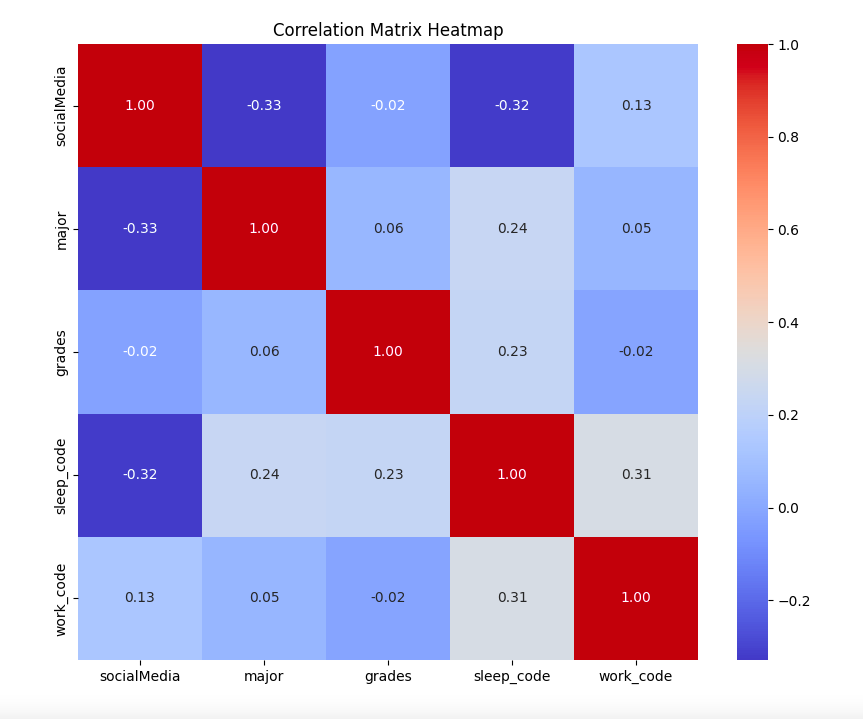
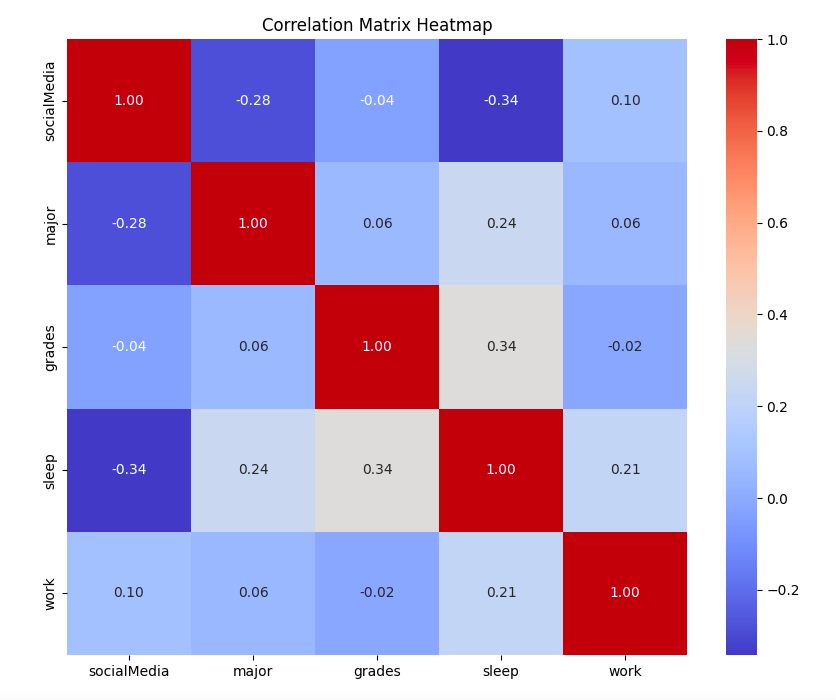
Changed data_exploration.py file.

diff --git a/src/data_exploration.py b/src/data_exploration.py
@@ -2,26 +2,27 @@ import pandas as pd
 import seaborn as sns
 import matplotlib.pyplot as plt
 
-# Load the data
-survey_data = pd.read_csv('/Users/JessFort/Documents/My_Coding_folder/Survey/data/survey.csv')
-
-# Convert categorical variables to numerical codes for correlation analysis
-survey_data['sleep_code'] = survey_data['sleep'].astype('category').cat.codes
-survey_data['work_code'] = survey_data['work'].astype('category').cat.codes
+# Load and preprocess the data
+df = pd.read_csv('/Users/JessFort/Documents/My_Coding_folder/Survey/data/survey.csv')
+df.drop('Timestamp', axis=1, inplace=True)
+df['sleep'] = [4 if str(answer)[0] != '3' else 10 for answer in df['sleep']]
+df['work'] = df['work'].apply(lambda x: 0 if str(x).startswith('1') else 4 if str(x).startswith('2') else 6 if str(x).startswith('3') else 10)
+df['socialMedia'] = df['socialMedia'].apply(lambda x: 0 if x <= 1 else 4 if x == 2 else 6 if x == 3 else 10)
+df = df.astype(float)
 
 # Generate histograms for the numerical variables
 plt.figure(figsize=(15, 5))
 
 plt.subplot(1, 3, 1)
-sns.histplot(survey_data['socialMedia'], kde=False, bins=5)
+sns.histplot(df['socialMedia'], kde=False, bins=5)
 plt.title('Distribution of Social Media Usage')
 
 plt.subplot(1, 3, 2)
-sns.histplot(survey_data['major'], kde=False, bins=8)
+sns.histplot(df['major'], kde=False, bins=8)
 plt.title('Distribution of Major Satisfaction')
 
 plt.subplot(1, 3, 3)
-sns.histplot(survey_data['grades'], kde=False, bins=8)
+sns.histplot(df['grades'], kde=False, bins=8)
 plt.title('Distribution of Grades')
 
 plt.tight_layout()
@@ -31,22 +32,22 @@ plt.show()
 plt.figure(figsize=(15, 5))
 
 plt.subplot(1, 3, 1)
-sns.boxplot(y=survey_data['socialMedia'])
+sns.boxplot(y=df['socialMedia'])
 plt.title('Boxplot of Social Media Usage')
 
 plt.subplot(1, 3, 2)
-sns.boxplot(y=survey_data['major'])
+sns.boxplot(y=df['major'])
 plt.title('Boxplot of Major Satisfaction')
 
 plt.subplot(1, 3, 3)
-sns.boxplot(y=survey_data['grades'])
+sns.boxplot(y=df['grades'])
 plt.title('Boxplot of Grades')
 
 plt.tight_layout()
 plt.show()
 
 # Create a correlation matrix and visualize it using a heatmap
-correlation_matrix = survey_data[['socialMedia', 'major', 'grades', 'sleep_code', 'work_code']].corr()
+correlation_matrix = df[['socialMedia', 'major', 'grades', 'sleep', 'work']].corr()
 
 plt.figure(figsize=(10, 8))
 sns.heatmap(correlation_matrix, annot=True, cmap='coolwarm', fmt=".2f")

diff --git a/src/linearReg.py b/src/linearReg.py
@@ -4,19 +4,22 @@ from sklearn.model_selection import train_test_split
 from sklearn.linear_model import LinearRegression
 from sklearn.metrics import mean_squared_error
 import seaborn as sns
+from sklearn.preprocessing import StandardScaler
+
 import matplotlib.pyplot as plt
 
 # Load and preprocess the data
 df = pd.read_csv('/Users/JessFort/Documents/My_Coding_folder/Survey/data/survey.csv')
 df.drop('Timestamp', axis=1, inplace=True)
+df.drop('major',axis=1,inplace=True)
 df['sleep'] = [4 if answer[0] != '3' else 10 for answer in df['sleep']]
 df['work'] = df['work'].apply(lambda x: 0 if x.startswith('1') else 4 if x.startswith('2') else 6 if x.startswith('3') else 10)
 df['socialMedia'] = df['socialMedia'].apply(lambda x: 0 if x <= 1 else 4 if x == 2 else 6 if x == 3 else 10)
 df = df.astype(float)
 
 # Identify outliers
-condition_1 = (df['sleep'] == 10) & ((df['work'] == 0) | (df['work'] == 4)) & ((df['socialMedia'] == 0) | (df['socialMedia'] == 3)) & (df['major'] > df['major'].mean())
-condition_2 = (df['sleep'] == 4) & ((df['work'] == 6) | (df['work'] == 10)) & ((df['socialMedia'] == 6) | (df['socialMedia'] == 10)) & (df['major'] < df['major'].mean())
+condition_1 = (df['sleep'] == 10) & ((df['work'] == 0) | (df['work'] == 4)) & ((df['socialMedia'] == 0) | (df['socialMedia'] == 3))
+condition_2 = (df['sleep'] == 4) & ((df['work'] == 6) | (df['work'] == 10)) & ((df['socialMedia'] == 6) | (df['socialMedia'] == 10))
 outliers = df[(condition_1) | (condition_2)].index
 
 df.drop(outliers, inplace=True)
@@ -26,10 +29,17 @@ X = df.drop('grades', axis=1).values
 # Split the data into training and testing sets
 X_train, X_test, y_train, y_test = train_test_split(X, y, test_size=0.35, random_state=40)
 
-# Train and evaluate the model
+scaler = StandardScaler()
+X_train_scaled = scaler.fit_transform(X_train)
+X_test_scaled = scaler.transform(X_test)
+
+# Train the model on scaled data
 model = LinearRegression()
-model.fit(X_train, y_train)
-y_pred = model.predict(X_test).round()
+model.fit(X_train_scaled, y_train)
+
+# Make predictions on the scaled test set
+y_pred = model.predict(X_test_scaled).round()
+
 mse = mean_squared_error(y_test, y_pred)
 std_dev = np.std(y_test)
 print(f"Sample size after preprocessing: {len(y)}")
